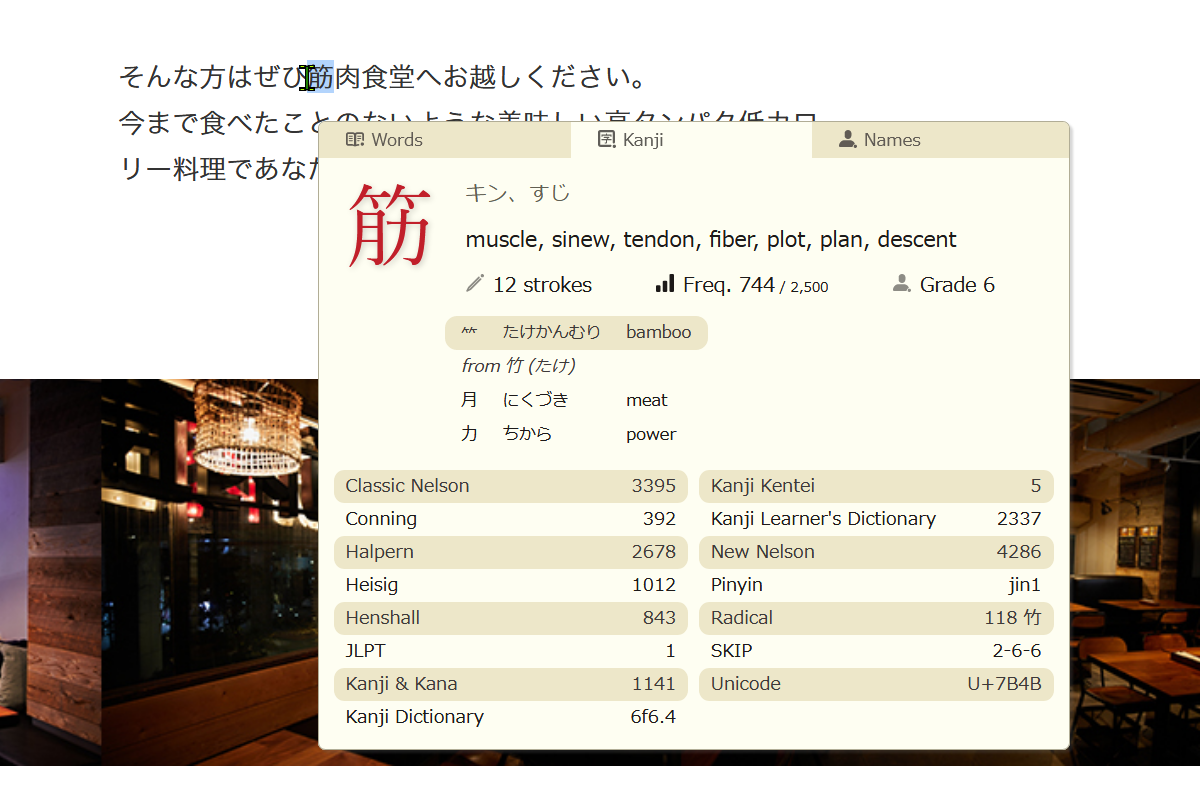
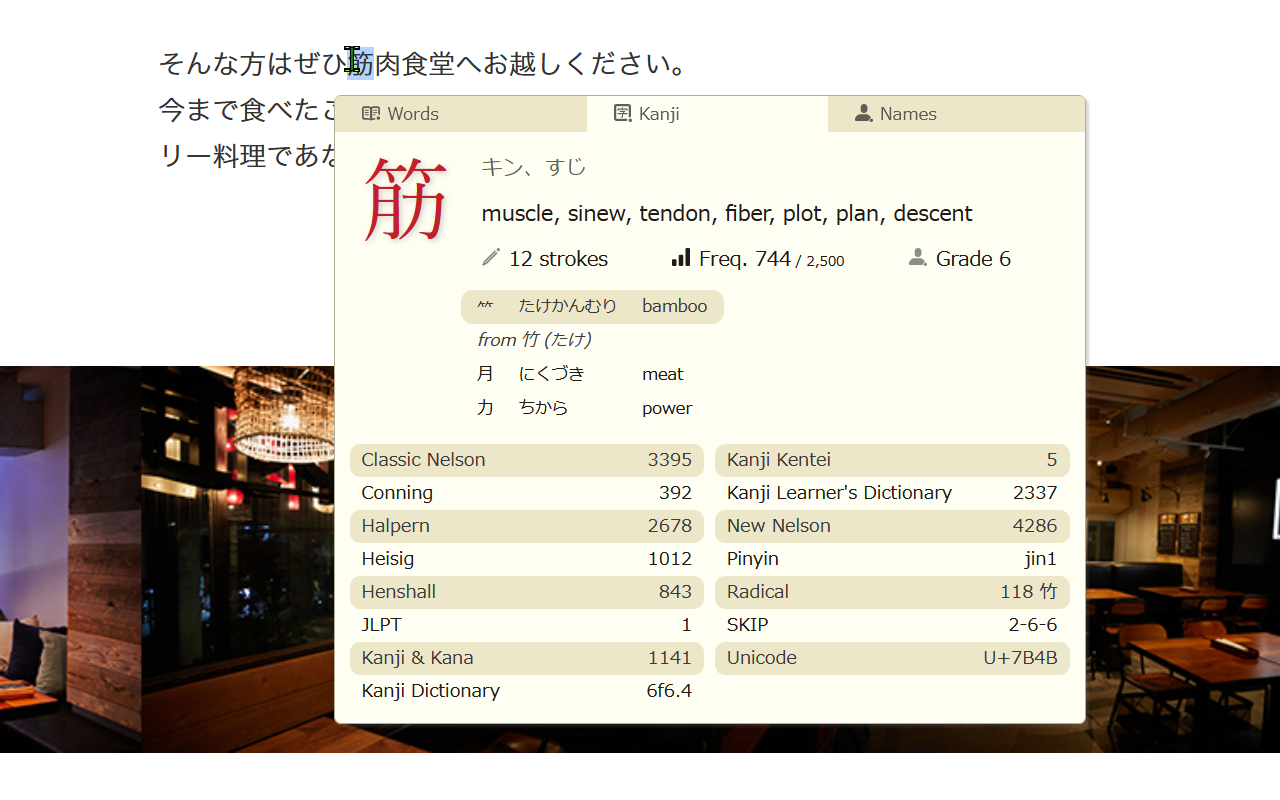
chore: Make all the screenshots 1280x800 instead of 1200x800

diff --git a/README.md b/README.md
@@ -25,24 +25,24 @@ Hi fellow Japanese reader! Formerly known as Rikaichamp, this browser extension 
 
 - Pitch accent information
 
-  <img src="https://raw.githubusercontent.com/birchill/10ten-ja-reader/main/docs/pitch-accent-cropped.png" alt="Screenshot showing pitch accent information" title="Pitch accent information" width="600">
+  <img src="https://raw.githubusercontent.com/birchill/10ten-ja-reader/main/docs/pitch-accent-cropped.png" alt="Screenshot showing pitch accent information" title="Pitch accent information" width="640">
 
 - Support for non-English dictionaries
 
-  <img src="https://raw.githubusercontent.com/birchill/10ten-ja-reader/main/docs/german-cropped.png" alt="Screenshot showing German translation" title="German translation" width="600">
+  <img src="https://raw.githubusercontent.com/birchill/10ten-ja-reader/main/docs/german-cropped.png" alt="Screenshot showing German translation" title="German translation" width="640">
 
 - Dictionaries that update automatically every week by fetching just the updated entries
 - Easy to read dictionary entries
 
-  <img src="https://raw.githubusercontent.com/birchill/10ten-ja-reader/main/docs/word-display-cropped.png" alt="Screenshot showing how definitions are grouped by part-of-speech" title="Some of the features of word display" width="600">
+  <img src="https://raw.githubusercontent.com/birchill/10ten-ja-reader/main/docs/word-display-cropped.png" alt="Screenshot showing how definitions are grouped by part-of-speech" title="Some of the features of word display" width="640">
 
 - Automatic translation of Japanese-era years into Gregorian years (e.g. 昭和５６年、令和元年、平成三十一年)
 
-  <img src="https://raw.githubusercontent.com/birchill/10ten-ja-reader/main/docs/year-translation-cropped.png" alt="Screenshot showing translation of 明治四十二年 into 1909年" title="Year translation" width="600">
+  <img src="https://raw.githubusercontent.com/birchill/10ten-ja-reader/main/docs/year-translation-cropped.png" alt="Screenshot showing translation of 明治四十二年 into 1909年" title="Year translation" width="640">
 
 - Automatic translation between 畳/帖 measurements and square meters (e.g. 四畳半、12.6 帖、25 平米、6m<sup>2</sup>)
 
-  <img src="https://raw.githubusercontent.com/birchill/10ten-ja-reader/main/docs/jou-conversion-cropped.png" alt="Screenshot showing translation of 四畳半 into 7.29 square meters" title="Area translation" width="600">
+  <img src="https://raw.githubusercontent.com/birchill/10ten-ja-reader/main/docs/jou-conversion-cropped.png" alt="Screenshot showing translation of 四畳半 into 7.29 square meters" title="Area translation" width="640">
 
 - Recognition of a wide range of grammatical forms
   (e.g. vs-c verbs like 兼した,
@@ -55,30 +55,30 @@ Hi fellow Japanese reader! Formerly known as Rikaichamp, this browser extension 
   causative passive, させる for verbs ending in す e.g. 起こさせる)
 - Automatic preview of name entries when there is a better match in the name dictionary
 
-  <img src="https://raw.githubusercontent.com/birchill/10ten-ja-reader/main/docs/name-dictionary-cross-ref-cropped.png" alt="Screenshot showing 南硫黄島 being automatically looked up from the names dictionary" title="Name dictionary cross-reference" width="600">
+  <img src="https://raw.githubusercontent.com/birchill/10ten-ja-reader/main/docs/name-dictionary-cross-ref-cropped.png" alt="Screenshot showing 小池百合子 being automatically looked up from the names dictionary" title="Name dictionary cross-reference" width="640">
 
 - Handling of a wide range of characters including ㋕, ㌀, ㋿, 𠏹沢, ８月, Ｂ級グルメ, オーサカ
 
-  <img src="https://raw.githubusercontent.com/birchill/10ten-ja-reader/main/docs/encircled-character-cropped.png" alt="Screenshot showing recognition of 弾道㋯㋚㋑㋸防衛 (弾道ミサイル防衛)" title="Encircled characters" width="600">
+  <img src="https://raw.githubusercontent.com/birchill/10ten-ja-reader/main/docs/encircled-character-cropped.png" alt="Screenshot showing recognition of 弾道㋯㋚㋑㋸防衛 (弾道ミサイル防衛)" title="Encircled characters" width="640">
 
-  <img src="https://raw.githubusercontent.com/birchill/10ten-ja-reader/main/docs/kabushiki-gaisha-cropped.png" alt="Screenshot showing recognition of ㍿ (株式会社)" title="Composed characters" width="600">
+  <img src="https://raw.githubusercontent.com/birchill/10ten-ja-reader/main/docs/kabushiki-gaisha-cropped.png" alt="Screenshot showing recognition of ㍿ (株式会社)" title="Composed characters" width="640">
 
 - Localized into Japanese (so you can study Japanese while you study Japanese!) and Simplified Chinese
 
-  <img src="https://raw.githubusercontent.com/birchill/10ten-ja-reader/main/docs/localized-cropped.png" alt="Screenshot showing various parts-of-speech and other information translated into Japanese" title="Localized popup" width="600">
+  <img src="https://raw.githubusercontent.com/birchill/10ten-ja-reader/main/docs/localized-cropped.png" alt="Screenshot showing various parts-of-speech and other information translated into Japanese" title="Localized popup" width="640">
 
 - Prioritization of common matches
 - Support for displaying romaji
 - Copy feature that allows selecting which entry and in what format to copy to the clipboard
 
-  <img src="https://raw.githubusercontent.com/birchill/10ten-ja-reader/main/docs/copy-feature-cropped.png" alt="Screenshot showing 河川敷 being selected and the various formats available for copying" title="Copy feature" width="600">
+  <img src="https://raw.githubusercontent.com/birchill/10ten-ja-reader/main/docs/copy-feature-cropped.png" alt="Screenshot showing 河川敷 being selected and the various formats available for copying" title="Copy feature" width="640">
 
 - Smart popup positioning
 - Support for vertical text and text in SVG images
 - Minimal memory usage
 - Kanji data for Kanji kentei, Conning references, updated educational levels, heavily reworked kanji components etc.
 
-  <img src="https://raw.githubusercontent.com/birchill/10ten-ja-reader/main/docs/kanji-view.png" alt="Screenshot of kanji view" title="Kanji dictionary" width="600">
+  <img src="https://raw.githubusercontent.com/birchill/10ten-ja-reader/main/docs/kanji-view.png" alt="Screenshot of kanji view" title="Kanji dictionary" width="640">
 
 - Intuitive settings window
 
